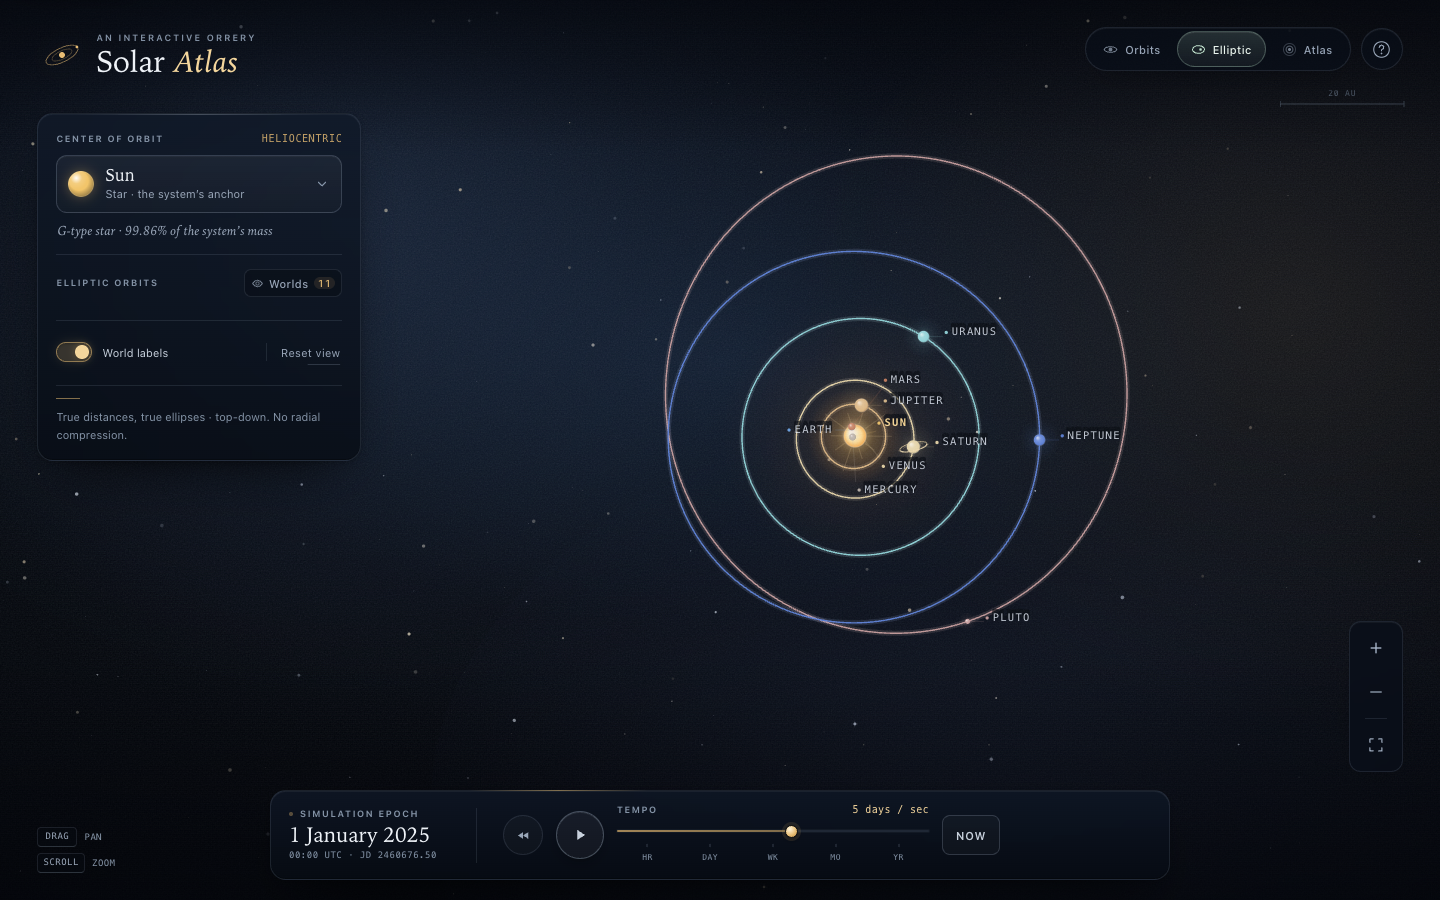
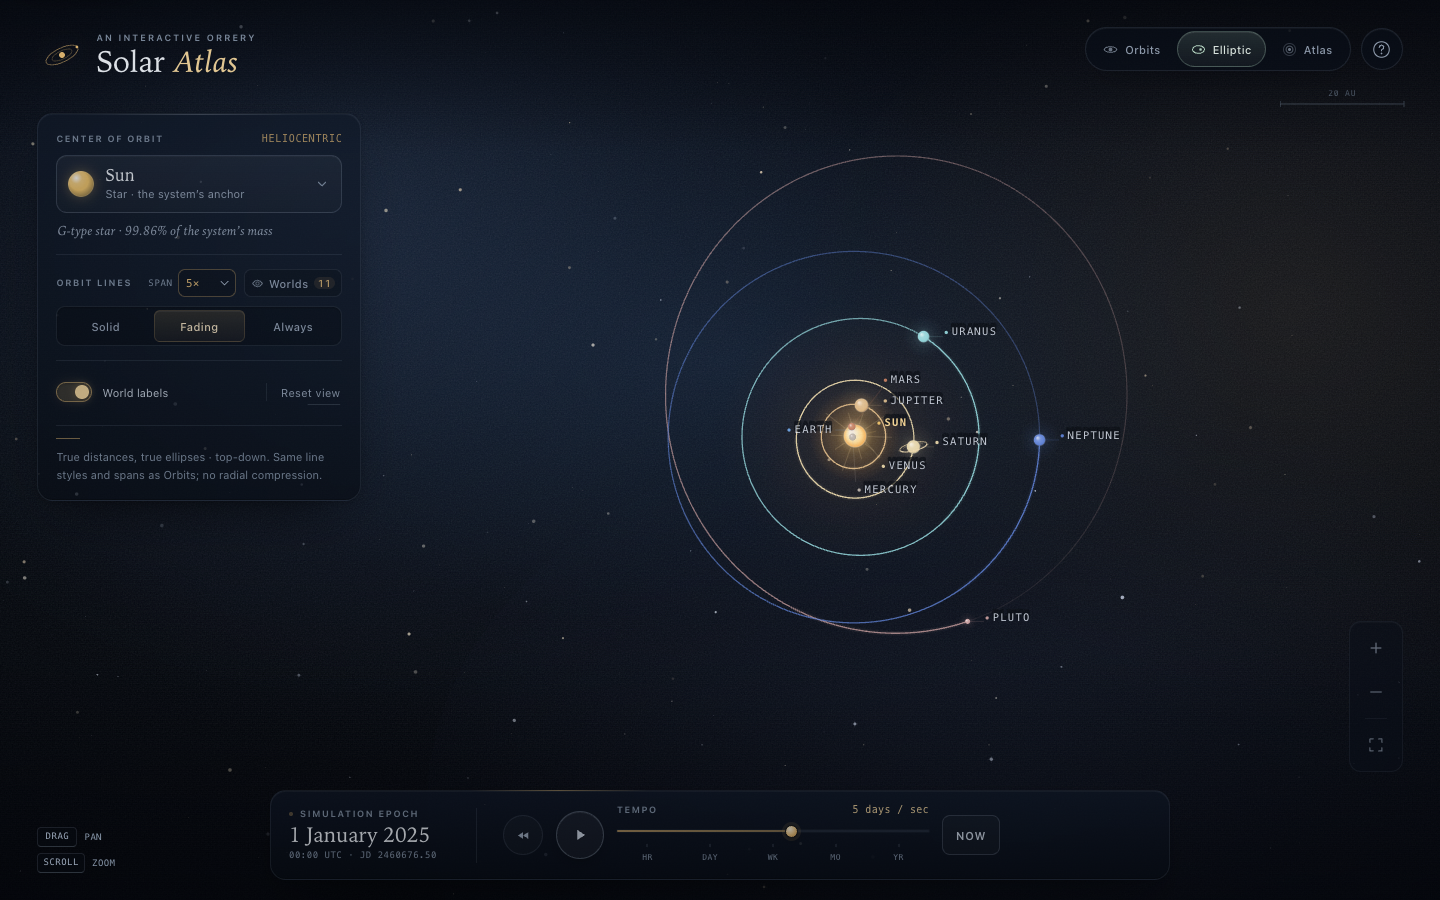
Use shared trail controls in Elliptic view

diff --git a/dist/solar-atlas.html b/dist/solar-atlas.html
@@ -1921,12 +1921,6 @@ body.is-elliptic .canvas-hint span:nth-child(2) {
   display: none;
 }
 
-/* Elliptic always uses complete orbit ellipses; those two controls do not apply. */
-body.is-elliptic .trail-span,
-body.is-elliptic #trail-switch {
-  display: none;
-}
-
 /* ==========================================================================
    11. Hover card
    ========================================================================== */
@@ -4203,7 +4197,7 @@ body.reduced-motion .timebar__date .eyebrow::before {
           </svg>
           <span>Orbits</span>
         </button>
-        <button class="mode-btn" type="button" data-mode="elliptic" aria-pressed="false" aria-label="Elliptic: top-down true-scale view with complete ellipses" title="Top-down true-scale view of the real, complete elliptical orbits">
+        <button class="mode-btn" type="button" data-mode="elliptic" aria-pressed="false" aria-label="Elliptic: top-down true-scale view" title="Top-down true-scale view; uses the same Solid, Fading and Always line styles as Orbits">
           <svg viewBox="0 0 16 16" fill="none" aria-hidden="true">
             <ellipse cx="8" cy="8" rx="6.4" ry="4.1" stroke="currentColor" stroke-width="1.1"/>
             <circle cx="10.2" cy="8" r="1.35" fill="currentColor"/>
@@ -4441,7 +4435,7 @@ body.reduced-motion .timebar__date .eyebrow::before {
         </div>
         <div class="help-row">
           <span class="shortcut">Modes</span>
-          <p><strong>Orbits</strong> is a tilted, explorable true-scale view. <strong>Elliptic</strong> is top-down at true scale with complete elliptical orbits and no radial compression. <strong>Atlas</strong> compresses radial distance to fit the whole system.</p>
+          <p><strong>Orbits</strong> is a tilted, explorable true-scale view. <strong>Elliptic</strong> is top-down at true scale with no radial compression; it uses the same Solid, Fading and Always line styles and Span as Orbits. Choose <strong>Always</strong> to see the complete ellipses. <strong>Atlas</strong> compresses radial distance to fit the whole system.</p>
         </div>
         <div class="help-row">
           <span class="shortcut">Space</span>
@@ -8076,7 +8070,6 @@ function createUI({ actions }) {
     labels: $('#toggle-labels'),
     resetView: $('#reset-view'),
     modeNote: $('#mode-note'),
-    orbitControlLabel: $('#orbit-control-label'),
     modeButtons: Array.from(document.querySelectorAll('[data-mode]')),
     trailButtons: Array.from(document.querySelectorAll('[data-trail]')),
     zoomIn: $('#zoom-in'),
@@ -8547,32 +8540,25 @@ function createUI({ actions }) {
     }
     refs.body.classList.toggle('is-atlas', state.mode === 'atlas');
     refs.body.classList.toggle('is-elliptic', state.mode === 'elliptic');
-    if (refs.orbitControlLabel) {
-      refs.orbitControlLabel.textContent = state.mode === 'elliptic'
-        ? 'Elliptic orbits'
-        : 'Orbit lines';
-    }
     refs.modeNote.textContent = state.mode === 'atlas'
       ? 'Radial distance compressed · top-down. Every world in one frame.'
       : state.mode === 'elliptic'
-        ? 'True distances, true ellipses · top-down. No radial compression.'
+        ? 'True distances, true ellipses · top-down. Same line styles and spans as Orbits; no radial compression.'
         : center.id === 'sun'
           ? 'True distances & inclinations. Elliptic and Atlas are top-down.'
           : `${center.name}-centered view. True distances; Fit reveals the whole system.`;
 
     // Orbit style.
-    if (refs.trailSwitch) refs.trailSwitch.hidden = state.mode === 'elliptic';
     for (const button of refs.trailButtons) {
       const active = button.dataset.trail === state.trailStyle;
       button.classList.toggle('is-active', active);
       button.setAttribute('aria-pressed', active ? 'true' : 'false');
     }
     const always = state.trailStyle === 'always';
-    const hidesSpan = always || state.mode === 'elliptic';
-    refs.trailSpanControl.hidden = hidesSpan;
+    refs.trailSpanControl.hidden = always;
     refs.trailSpan.value = String(state.trailSpan);
-    refs.trailSpanControl.classList.toggle('is-custom', !hidesSpan && state.trailSpan !== 1);
-    refs.trailSpanControl.title = hidesSpan
+    refs.trailSpanControl.classList.toggle('is-custom', !always && state.trailSpan !== 1);
+    refs.trailSpanControl.title = always
       ? 'Always shows complete orbits.'
       : `${state.trailSpan}× history for Solid and Fading trails.`;
 
@@ -9360,17 +9346,11 @@ function fitView() {
 
 /* ------------------------------------------------------------------- traces */
 
-// Elliptic is a dedicated true-ellipse view: it always uses complete orbit
-// paths, even if the last Orbits/Atlas line style was Solid or Fading.
-function effectiveTrailStyle() {
-  return state.mode === 'elliptic' ? 'always' : state.trailStyle;
-}
-
 function rebuildTraces(now = performance.now(), force = false) {
   if (!force && traces && Math.abs(state.jd - tracesJd) < 1e-8) return;
   currentPositions = astronomy.getPositions(state.jd);
   try {
-    const completeOrbits = effectiveTrailStyle() === 'always';
+    const completeOrbits = state.trailStyle === 'always';
     const build = completeOrbits ? buildCompleteOrbitTraces : buildTraces;
     const samples = completeOrbits
       ? COMPLETE_TRACE_SAMPLES
@@ -9473,15 +9453,6 @@ function setMode(mode) {
   if (previous === 'realistic') savedRealisticCamera = outgoing;
 
   state.mode = mode;
-
-  // Elliptic uses complete parent ellipses regardless of the chosen trail
-  // style. Entering or leaving it therefore needs a fresh trace build.
-  const geometryChanged = (previous === 'elliptic') !== (mode === 'elliptic');
-  if (geometryChanged) {
-    traces = null;
-    tracesJd = Number.NaN;
-    rebuildTraces(performance.now(), true);
-  }
   recomputeScaleLimits();
 
   let goal;
@@ -9493,13 +9464,13 @@ function setMode(mode) {
     startAtlasBlend(1, 900);
     ui.announce('Atlas view. Distances are compressed for a top-down map of the whole system.');
   } else if (mode === 'elliptic') {
-    // Frame the whole true-scale system so the complete ellipses read as
-    // ellipses. Unlike Atlas, nothing is radially compressed; zoom in for
-    // detail on the inner worlds.
+    // Frame the whole true-scale system. Unlike Atlas, nothing is radially
+    // compressed; the selected line style and Span still apply, so Always
+    // reveals the complete ellipses while Fading shows their recent trails.
     goal = ellipticFitAllGoal();
     duration = 900;
     startAtlasBlend(0, 900);
-    ui.announce('Elliptic view. True scale, complete elliptical orbits, top-down.');
+    ui.announce('Elliptic view. True scale, top-down. The selected orbit line style and span still apply.');
   } else {
     goal = savedRealisticCamera || defaultRealisticGoal({ defaultTilt: true });
     savedRealisticCamera = null;
@@ -10218,7 +10189,7 @@ function drawFrame(now) {
     centerId: state.centerId,
     hiddenBodies: state.hiddenBodies,
     avoidRects: chromeRects,
-    trailStyle: effectiveTrailStyle(),
+    trailStyle: state.trailStyle,
     showLabels: state.labels,
     hoveredId: state.hoveredId,
     reducedMotion: REDUCED_MOTION,
@@ -10286,7 +10257,7 @@ function boot() {
     getState: () => ({
       centerId: state.centerId,
       mode: state.mode,
-      trailStyle: effectiveTrailStyle(),
+      trailStyle: state.trailStyle,
       trailSpan: state.trailSpan,
       labels: state.labels,
       playing: state.playing,
@@ -10340,7 +10311,7 @@ function boot() {
     getSceneSummary: () => ({
       centerId: state.centerId,
       mode: state.mode,
-      trailStyle: effectiveTrailStyle(),
+      trailStyle: state.trailStyle,
       trailSpan: state.trailSpan,
       atlasBlend: atlas.blend,
       camera: { ...camera },

diff --git a/src/js/main.js b/src/js/main.js
@@ -581,17 +581,11 @@ function fitView() {
 
 /* ------------------------------------------------------------------- traces */
 
-// Elliptic is a dedicated true-ellipse view: it always uses complete orbit
-// paths, even if the last Orbits/Atlas line style was Solid or Fading.
-function effectiveTrailStyle() {
-  return state.mode === 'elliptic' ? 'always' : state.trailStyle;
-}
-
 function rebuildTraces(now = performance.now(), force = false) {
   if (!force && traces && Math.abs(state.jd - tracesJd) < 1e-8) return;
   currentPositions = astronomy.getPositions(state.jd);
   try {
-    const completeOrbits = effectiveTrailStyle() === 'always';
+    const completeOrbits = state.trailStyle === 'always';
     const build = completeOrbits ? buildCompleteOrbitTraces : buildTraces;
     const samples = completeOrbits
       ? COMPLETE_TRACE_SAMPLES
@@ -694,15 +688,6 @@ function setMode(mode) {
   if (previous === 'realistic') savedRealisticCamera = outgoing;
 
   state.mode = mode;
-
-  // Elliptic uses complete parent ellipses regardless of the chosen trail
-  // style. Entering or leaving it therefore needs a fresh trace build.
-  const geometryChanged = (previous === 'elliptic') !== (mode === 'elliptic');
-  if (geometryChanged) {
-    traces = null;
-    tracesJd = Number.NaN;
-    rebuildTraces(performance.now(), true);
-  }
   recomputeScaleLimits();
 
   let goal;
@@ -714,13 +699,13 @@ function setMode(mode) {
     startAtlasBlend(1, 900);
     ui.announce('Atlas view. Distances are compressed for a top-down map of the whole system.');
   } else if (mode === 'elliptic') {
-    // Frame the whole true-scale system so the complete ellipses read as
-    // ellipses. Unlike Atlas, nothing is radially compressed; zoom in for
-    // detail on the inner worlds.
+    // Frame the whole true-scale system. Unlike Atlas, nothing is radially
+    // compressed; the selected line style and Span still apply, so Always
+    // reveals the complete ellipses while Fading shows their recent trails.
     goal = ellipticFitAllGoal();
     duration = 900;
     startAtlasBlend(0, 900);
-    ui.announce('Elliptic view. True scale, complete elliptical orbits, top-down.');
+    ui.announce('Elliptic view. True scale, top-down. The selected orbit line style and span still apply.');
   } else {
     goal = savedRealisticCamera || defaultRealisticGoal({ defaultTilt: true });
     savedRealisticCamera = null;
@@ -1439,7 +1424,7 @@ function drawFrame(now) {
     centerId: state.centerId,
     hiddenBodies: state.hiddenBodies,
     avoidRects: chromeRects,
-    trailStyle: effectiveTrailStyle(),
+    trailStyle: state.trailStyle,
     showLabels: state.labels,
     hoveredId: state.hoveredId,
     reducedMotion: REDUCED_MOTION,
@@ -1507,7 +1492,7 @@ function boot() {
     getState: () => ({
       centerId: state.centerId,
       mode: state.mode,
-      trailStyle: effectiveTrailStyle(),
+      trailStyle: state.trailStyle,
       trailSpan: state.trailSpan,
       labels: state.labels,
       playing: state.playing,
@@ -1561,7 +1546,7 @@ function boot() {
     getSceneSummary: () => ({
       centerId: state.centerId,
       mode: state.mode,
-      trailStyle: effectiveTrailStyle(),
+      trailStyle: state.trailStyle,
       trailSpan: state.trailSpan,
       atlasBlend: atlas.blend,
       camera: { ...camera },

diff --git a/src/js/ui.js b/src/js/ui.js
@@ -175,7 +175,6 @@ export function createUI({ actions }) {
     labels: $('#toggle-labels'),
     resetView: $('#reset-view'),
     modeNote: $('#mode-note'),
-    orbitControlLabel: $('#orbit-control-label'),
     modeButtons: Array.from(document.querySelectorAll('[data-mode]')),
     trailButtons: Array.from(document.querySelectorAll('[data-trail]')),
     zoomIn: $('#zoom-in'),
@@ -646,32 +645,25 @@ export function createUI({ actions }) {
     }
     refs.body.classList.toggle('is-atlas', state.mode === 'atlas');
     refs.body.classList.toggle('is-elliptic', state.mode === 'elliptic');
-    if (refs.orbitControlLabel) {
-      refs.orbitControlLabel.textContent = state.mode === 'elliptic'
-        ? 'Elliptic orbits'
-        : 'Orbit lines';
-    }
     refs.modeNote.textContent = state.mode === 'atlas'
       ? 'Radial distance compressed · top-down. Every world in one frame.'
       : state.mode === 'elliptic'
-        ? 'True distances, true ellipses · top-down. No radial compression.'
+        ? 'True distances, true ellipses · top-down. Same line styles and spans as Orbits; no radial compression.'
         : center.id === 'sun'
           ? 'True distances & inclinations. Elliptic and Atlas are top-down.'
           : `${center.name}-centered view. True distances; Fit reveals the whole system.`;
 
     // Orbit style.
-    if (refs.trailSwitch) refs.trailSwitch.hidden = state.mode === 'elliptic';
     for (const button of refs.trailButtons) {
       const active = button.dataset.trail === state.trailStyle;
       button.classList.toggle('is-active', active);
       button.setAttribute('aria-pressed', active ? 'true' : 'false');
     }
     const always = state.trailStyle === 'always';
-    const hidesSpan = always || state.mode === 'elliptic';
-    refs.trailSpanControl.hidden = hidesSpan;
+    refs.trailSpanControl.hidden = always;
     refs.trailSpan.value = String(state.trailSpan);
-    refs.trailSpanControl.classList.toggle('is-custom', !hidesSpan && state.trailSpan !== 1);
-    refs.trailSpanControl.title = hidesSpan
+    refs.trailSpanControl.classList.toggle('is-custom', !always && state.trailSpan !== 1);
+    refs.trailSpanControl.title = always
       ? 'Always shows complete orbits.'
       : `${state.trailSpan}× history for Solid and Fading trails.`;
 

diff --git a/index.html b/index.html
@@ -60,7 +60,7 @@
           </svg>
           <span>Orbits</span>
         </button>
-        <button class="mode-btn" type="button" data-mode="elliptic" aria-pressed="false" aria-label="Elliptic: top-down true-scale view with complete ellipses" title="Top-down true-scale view of the real, complete elliptical orbits">
+        <button class="mode-btn" type="button" data-mode="elliptic" aria-pressed="false" aria-label="Elliptic: top-down true-scale view" title="Top-down true-scale view; uses the same Solid, Fading and Always line styles as Orbits">
           <svg viewBox="0 0 16 16" fill="none" aria-hidden="true">
             <ellipse cx="8" cy="8" rx="6.4" ry="4.1" stroke="currentColor" stroke-width="1.1"/>
             <circle cx="10.2" cy="8" r="1.35" fill="currentColor"/>
@@ -298,7 +298,7 @@
         </div>
         <div class="help-row">
           <span class="shortcut">Modes</span>
-          <p><strong>Orbits</strong> is a tilted, explorable true-scale view. <strong>Elliptic</strong> is top-down at true scale with complete elliptical orbits and no radial compression. <strong>Atlas</strong> compresses radial distance to fit the whole system.</p>
+          <p><strong>Orbits</strong> is a tilted, explorable true-scale view. <strong>Elliptic</strong> is top-down at true scale with no radial compression; it uses the same Solid, Fading and Always line styles and Span as Orbits. Choose <strong>Always</strong> to see the complete ellipses. <strong>Atlas</strong> compresses radial distance to fit the whole system.</p>
         </div>
         <div class="help-row">
           <span class="shortcut">Space</span>

diff --git a/src/css/styles.css b/src/css/styles.css
@@ -1910,12 +1910,6 @@ body.is-elliptic .canvas-hint span:nth-child(2) {
   display: none;
 }
 
-/* Elliptic always uses complete orbit ellipses; those two controls do not apply. */
-body.is-elliptic .trail-span,
-body.is-elliptic #trail-switch {
-  display: none;
-}
-
 /* ==========================================================================
    11. Hover card
    ========================================================================== */

diff --git a/README.md b/README.md
@@ -5,9 +5,8 @@
 Open the orrery and watch the planets move along their real Keplerian paths. Change the center
 of the view to the Sun, Earth, Jupiter, the Moon, or any other body, and every orbit is
 recomputed around that new anchor. Switch between glowing comet trails, clean solid lines, and complete, full-brightness orbits, stretch the trail history from half to fifty times its default span,
-scrub the tempo from hours to years per second, and switch between a top-down, true-scale
-Elliptic view of the complete ellipses and an Atlas that compresses distance so all eleven
-worlds fit in one composed view.
+scrub the tempo from hours to years per second, and switch between a top-down, true-scale Elliptic view — with the same line styles as
+Orbits — and an Atlas that compresses distance so all eleven worlds fit in one composed view.
 
 **Live site:** [seekahead.eu/solar](https://seekahead.eu/solar/) · [GitHub Pages mirror](https://david-batranu.github.io/solar-atlas/)
 
@@ -23,7 +22,7 @@ external fonts or images. Every world can be shown or hidden independently, incl
 *The same moment centered on Earth: the apparent solar path and the inner worlds' geocentric rosettes.*
 
 ![Solar Atlas — Elliptic view](docs/screenshots/elliptic-heliocentric.png)
-*Elliptic view: top-down at true scale, with complete Keplerian ellipses and no radial compression.*
+*Elliptic view: top-down at true scale with no radial compression. This preview uses Fading at 5× span; Solid and Always work here exactly as they do in Orbits.*
 
 ![Solar Atlas — Atlas view](docs/screenshots/atlas-heliocentric.png)
 *Atlas view: all eleven worlds in one top-down, radially compressed map.*
@@ -68,10 +67,10 @@ Node 18+ is recommended. There is no install step.
 | **Center picker** in the left panel | Re-anchor the whole map on the Sun, a planet, Pluto, or the Moon. |
 | **Click a world or its label** | Centre the map on that world. |
 | **Hover an orbit point** | See the body and the UTC date/time it occupied that point. |
-| **Orbit lines: Solid / Fading / Always** | Continuous hairlines, luminous comet-tail trails, or complete closed orbits at full brightness with no fading. Always shows each world’s full orbit around its parent, translated into the current center’s frame. Hidden in Elliptic, which always draws complete ellipses. |
+| **Orbit lines: Solid / Fading / Always** | Continuous hairlines, luminous comet-tail trails, or complete closed orbits at full brightness with no fading. Always shows each world’s full orbit around its parent, translated into the current center’s frame. Available in Orbits, Elliptic and Atlas. |
 | **Visible worlds** | Open **Worlds** beside Orbit lines to show or hide any world’s marker, label and orbit. Use **Center only** to clear the field, then tick the worlds you want. The center world is always visible. |
 | **Span** beside Orbit lines | Stretch or shorten the Solid/Fading history from 0.5× to 50× its default window. Longer spans keep older positions available; Fading adds a faint guide across the whole window so its oldest end does not disappear. |
-| **Orbits / Elliptic / Atlas** | Tilted true-scale view; top-down true-scale complete ellipses with no compression; or the top-down radially compressed whole-system map. |
+| **Orbits / Elliptic / Atlas** | Tilted true-scale view; top-down true-scale view with no radial compression; or the top-down radially compressed whole-system map. Elliptic uses the same line style and Span controls as Orbits. |
 | **Drag** | Pan the map. |
 | **Shift + drag** | Tilt and rotate the orbit view (locked in Elliptic and Atlas). |
 | **Scroll / pinch** | Zoom toward the pointer or pinch center. |
@@ -102,7 +101,7 @@ The URL records `center`, `mode`, `trail`, `span`, `labels`, and hidden worlds (
   against the moving center at the same instant, so the trails are the true geocentric /
   areocentric / etc. rosettes and retrograde loops over several synodic periods.
 - **Long history stays curved.** The Span selector scales the ephemeris sampling with the requested history, and trace paths are drawn with a smooth Catmull–Rom interpolation through the samples. This keeps extended 5×–50× geocentric rosettes from turning into visible polygons; *Always* ignores Span and renders complete parent orbits.
-- **Elliptic mode** is top-down at true scale and always draws complete closed parent orbits, so the Solid/Fading style and Span controls are hidden there. It does not compress distance: Fit shows the whole system, but the outer planets are necessarily small. In heliocentric view the paths are the real Keplerian ellipses with the Sun at one focus; in a planet-centered view the same parent ellipses are translated into that center’s frame.
+- **Elliptic mode** is top-down at true scale, with no radial compression, and keeps the same Solid/Fading/Always and Span behavior as Orbits. Use *Always* for the complete Keplerian ellipses; in heliocentric view the Sun sits at one focus, and in a planet-centered view the same parent ellipses are translated into that center’s frame. Fit shows the whole true-scale system, but the outer planets are necessarily small.
 - **Atlas mode** is the one deliberate distortion: only the radius is compressed
   (`r' = ln(1 + r / 0.18)`), preserving every angle and orbital shape. A logarithmic scale
   brings Mercury and Neptune into the same frame.

diff --git a/CONTRACT.md b/CONTRACT.md
@@ -11,9 +11,8 @@ Target: 60fps on a laptop, graceful on mobile. No external runtime assets or fon
 - Orbit trail style: **solid**, **fading** (alpha increases toward the body's current position), or **always** (complete closed parent orbit in the selected center’s frame, uniform full brightness).
 - Simulation time speed: play/pause, reverse, log speed control, speed presets, "now".
 - Zoom in/out (wheel, pinch, buttons, fit view) and pan; a top-down, true-scale **Elliptic**
-  mode with complete closed ellipses, and a top-down **Atlas** mode that compresses radial
-  distance so the entire system is legible at once. Elliptic uses complete parent-orbit geometry
-  regardless of the last Solid/Fading style, and hides those controls plus Span.
+  mode using the same Solid/Fading/Always and Span behavior as Orbits, and a top-down **Atlas**
+  mode that compresses radial distance so the entire system is legible at once.
 - Every non-center world can be hidden independently; hiding removes its marker, label and orbit trace and excludes it from Fit. The center world always remains visible. Persist the set in the URL as `hide=<comma-separated ids>`.
 - Solid and Fading history is user-adjustable from 0.5× to 50× the base trace window (`span` URL parameter); Always ignores the multiplier and draws complete parent orbits. Fading keeps a faint guide across the full selected history. Hovering an orbit segment shows its body and UTC date/time.
 - Orbit lines / labels remain performant and legible in every center and in Elliptic/Atlas.
